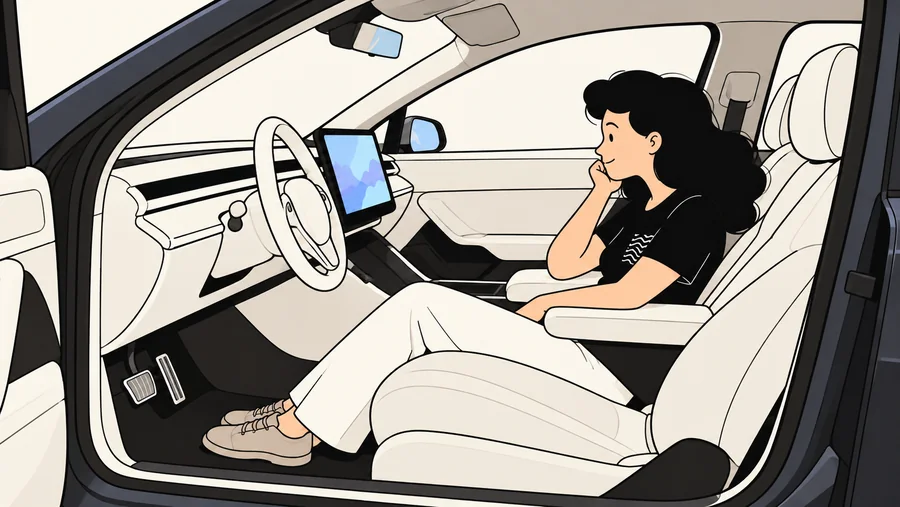
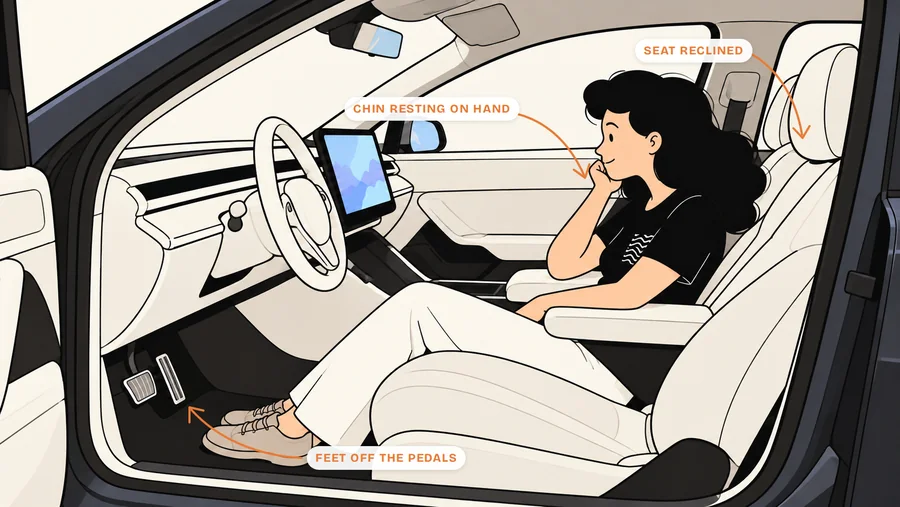
v2: labels on the driver illustration
Claude-Session: https://claude.ai/code/session_01RbJu4ENjvQVX4t9txAJ5Am

diff --git a/my-work/project-1-v2/index.html b/my-work/project-1-v2/index.html
@@ -832,7 +832,7 @@
 
             <div class="cs-illustration" data-reveal>
               <div class="cs-illustration-image">
-                <img src="../../assets/images/project-1/v2-driver.webp" srcset="../../assets/images/project-1/v2-driver-s.webp 900w, ../../assets/images/project-1/v2-driver.webp 1672w" sizes="(max-width: 900px) 100vw, 1100px" loading="lazy" alt="Side view of the driver in a self driving car: seat reclined, chin resting on her hand while she watches the centre screen, feet pulled back away from the pedals" style="width:100%; height:100%; object-fit:cover; display:block; border-radius:12px;">
+                <img src="../../assets/images/project-1/v2-driver.webp" srcset="../../assets/images/project-1/v2-driver-s.webp 900w, ../../assets/images/project-1/v2-driver.webp 1672w" sizes="(max-width: 900px) 100vw, 1100px" loading="lazy" alt="Side view of the driver, labelled: seat reclined, chin resting on hand, feet off the pedals" style="width:100%; height:100%; object-fit:cover; display:block; border-radius:12px;">
               </div>
             </div>
 
